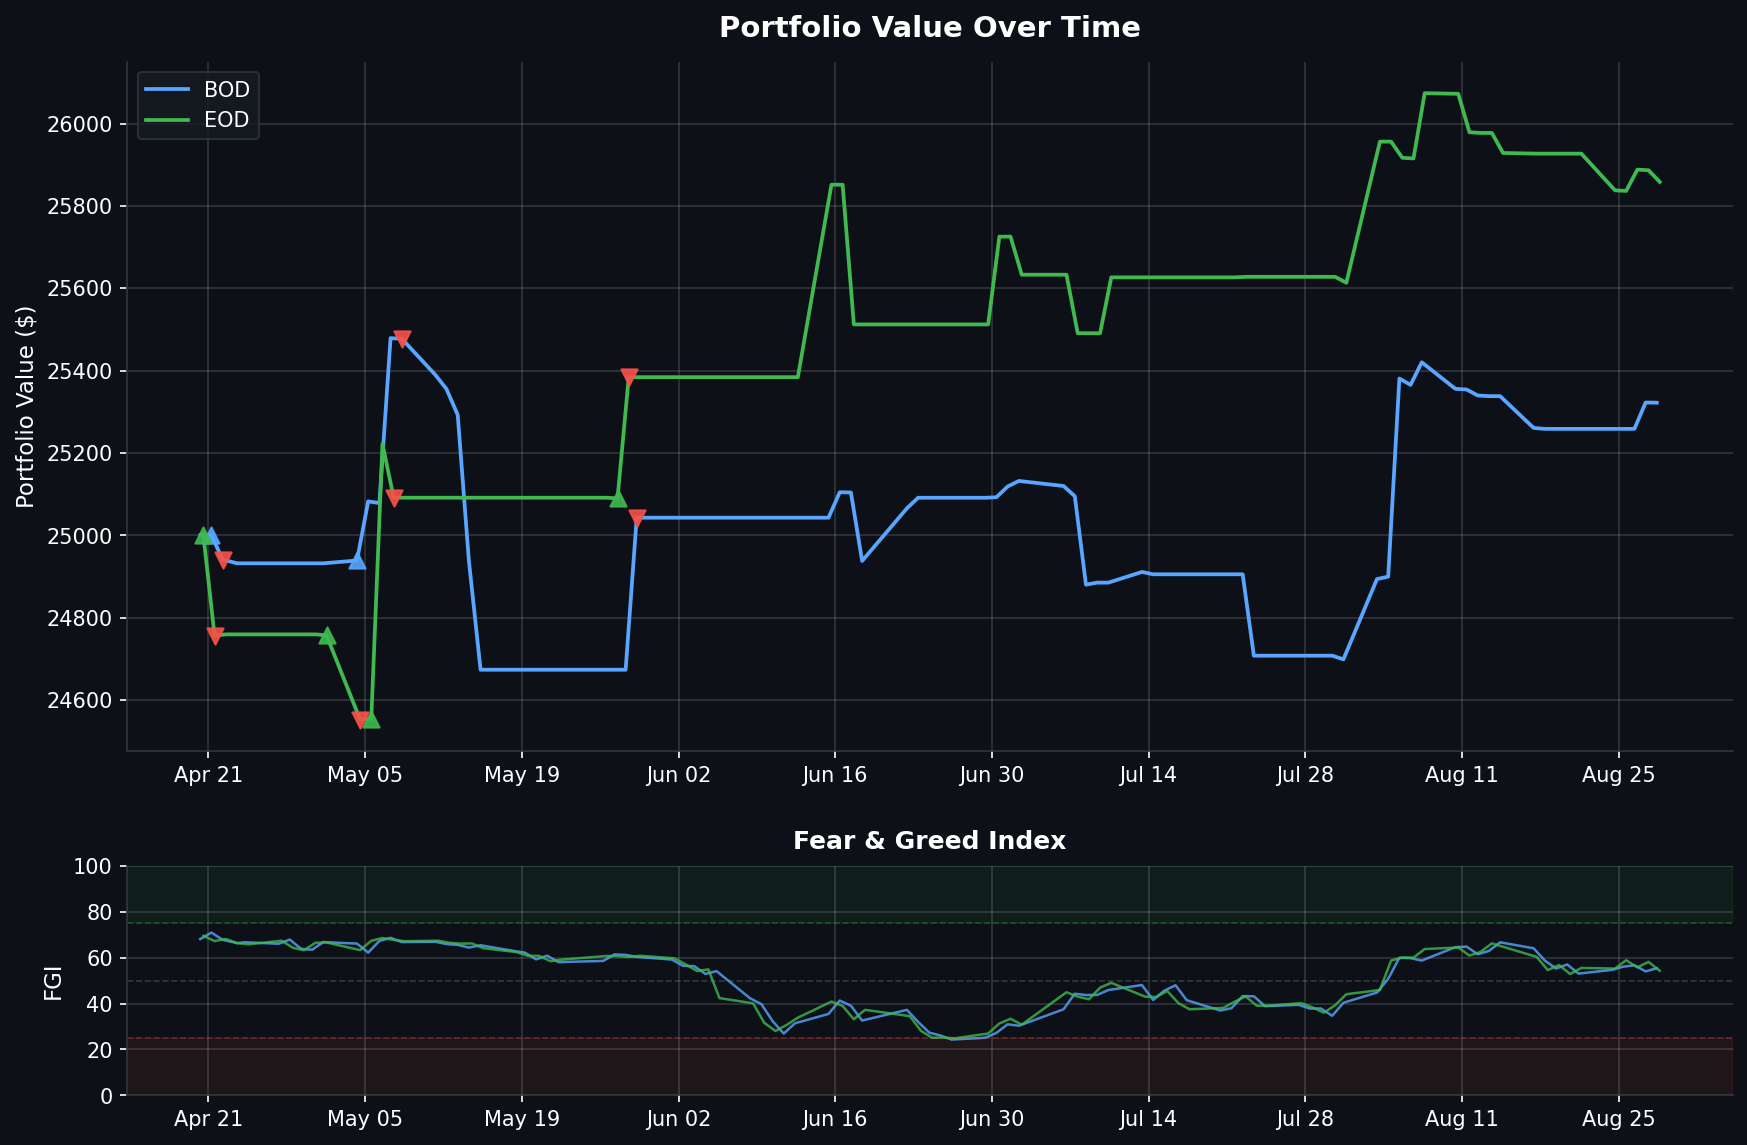
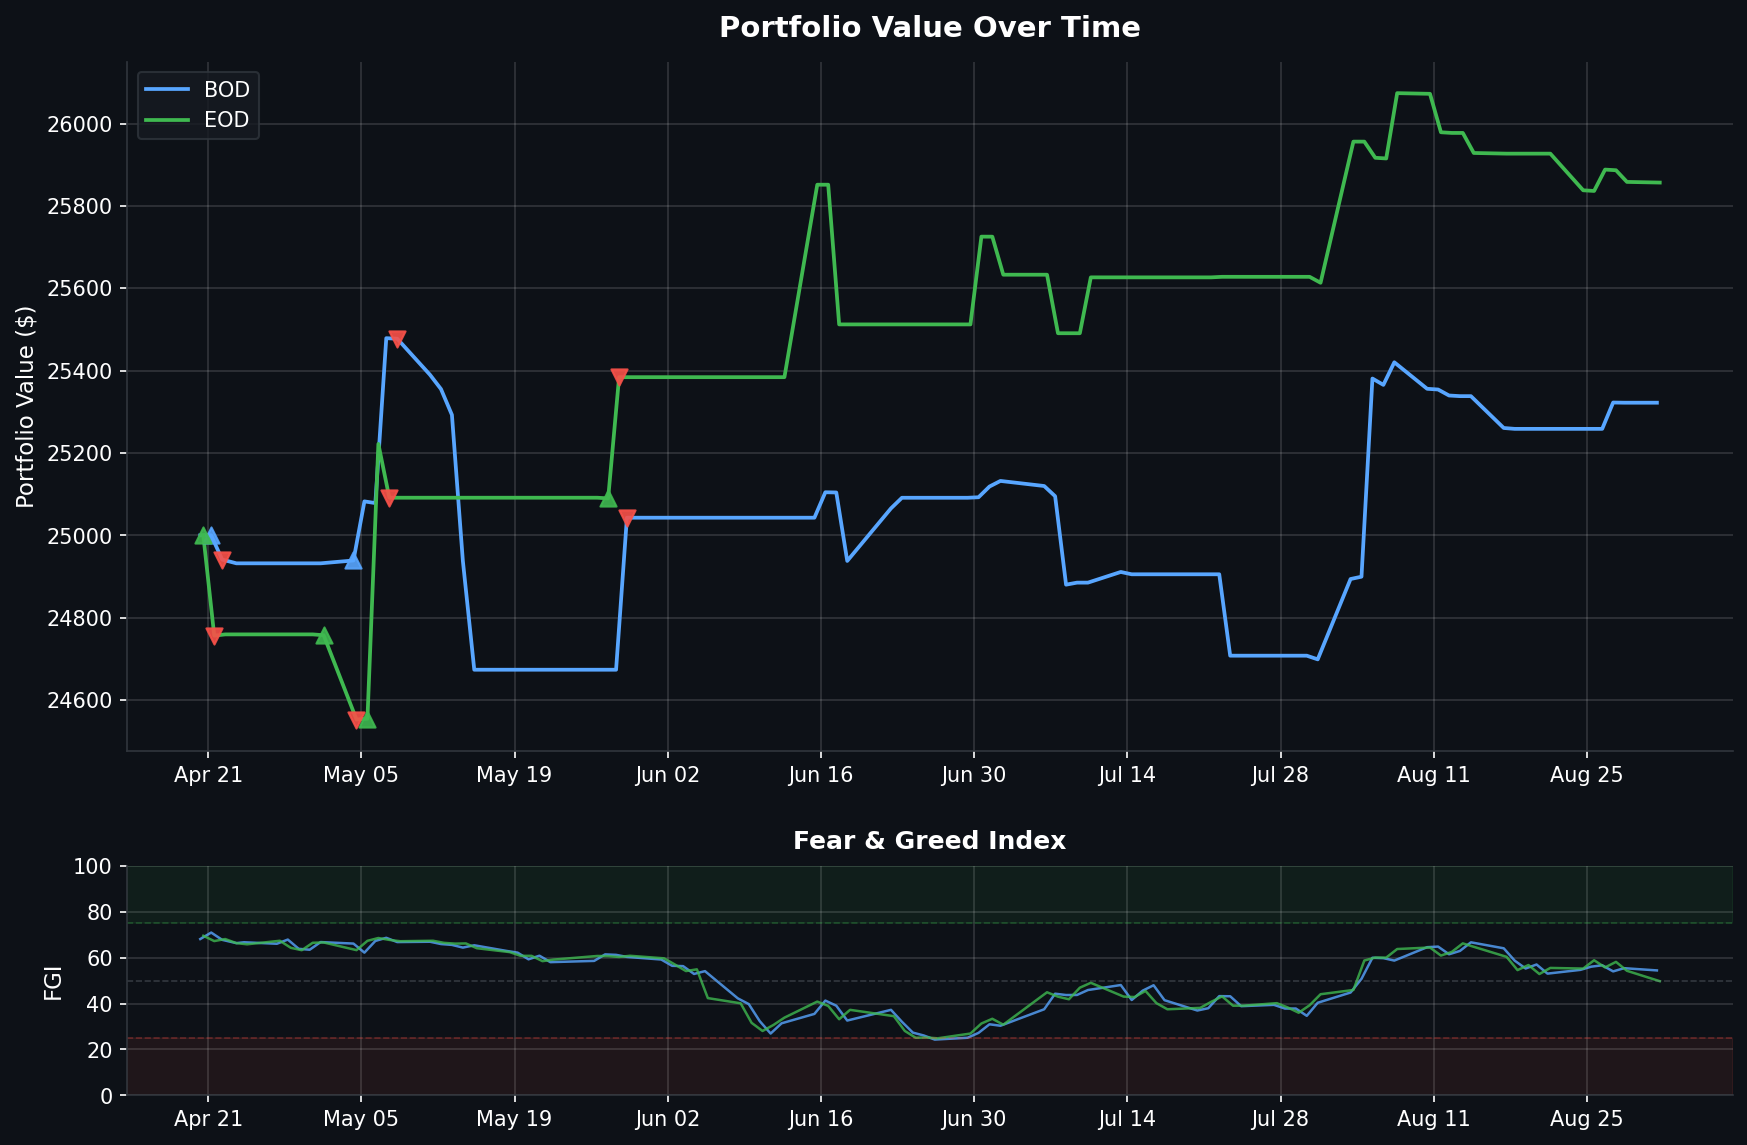
Daily data backup 2026-08-31

diff --git a/README.md b/README.md
@@ -1,6 +1,6 @@
 # Fear & Greed Index Trading Bot
 
-> Dashboard auto-updated daily at market close | Last update: **2026-08-29 13:29 PST**
+> Dashboard auto-updated daily at market close | Last update: **2026-08-31 13:30 PST**
 
 ![Portfolio Performance](assets/portfolio_chart.png)
 
@@ -12,12 +12,12 @@
 |--------|-------|
 | Portfolio Value | **$25,322.10** |
 | Buying Power | $101,288.40 |
-| Current FGI | 55.4 |
+| Current FGI | 54.43 |
 | Position | FLAT |
 | Total P&L | **$+995** |
 | Win Rate | 50% (1W / 1L) |
 | Total Round Trips | 2 |
-| Last Signal | NO_ACTION @ 2026-08-28 09:35 |
+| Last Signal | NO_ACTION @ 2026-08-31 09:35 |
 
 <details>
 <summary>Trade History (2 trades)</summary>
@@ -34,11 +34,11 @@
 
 | Time | Action | Price | FGI | Momentum | Velocity | Volatility | Reason |
 |------|--------|-------|-----|----------|----------|------------|--------|
+| 08-31 09:35 | NO_ACTION | $766.17 | 54.43 | -0.18 | -0.74 | 0.0934 | Insufficient momentum/velocity for entry |
 | 08-28 09:35 | NO_ACTION | $772.07 | 55.4 | 0.05 | -0.22 | 0.55 | Insufficient momentum/velocity for entry |
 | 08-27 09:35 | NO_ACTION | $767.41 | 54.0 | -1.57 | -0.22 | 0.55 | SELL incomplete - still holding 32 after 5 attempts |
 | 08-26 09:35 | NO_ACTION | $765.67 | 56.66 | 0.87 | 1.21 | 0.55 | BUY did not fill after 3 attempts |
 | 08-25 09:35 | NO_ACTION | $766.64 | 56.06 | 1.48 | -0.31 | 0.55 | Insufficient momentum/velocity for entry |
-| 08-24 09:35 | NO_ACTION | $763.34 | 54.66 | -0.24 | -0.20 | 0.55 | Insufficient momentum/velocity for entry |
 
 </details>
 
@@ -48,17 +48,17 @@
 
 | Metric | Value |
 |--------|-------|
-| Portfolio Value | **$25,858.29** |
-| Buying Power | $103,433.16 |
-| Current FGI | 54.26 |
-| Position | IN POSITION |
+| Portfolio Value | **$25,856.69** |
+| Buying Power | $103,426.76 |
+| Current FGI | 49.74 |
+| Position | FLAT |
 | Total P&L | **$+302** |
 | Win Rate | 50% (2W / 2L) |
 | Total Round Trips | 4 |
-| Last Signal | NO_ACTION @ 2026-08-28 15:52 |
+| Last Signal | NO_ACTION @ 2026-08-31 15:50 |
 
 <details>
-<summary>Trade History (5 trades)</summary>
+<summary>Trade History (4 trades)</summary>
 
 | Buy Date | Sell Date | Buy Price | Sell Price | Qty | P&L | Return | Result |
 |----------|-----------|-----------|------------|-----|-----|--------|--------|
@@ -66,7 +66,6 @@
 | 2026-05-01 | 2026-05-04 | $720.42 | $717.38 | 68 | $-207 | -0.42% | LOSS |
 | 2026-05-05 | 2026-05-07 | $723.86 | $731.90 | 67 | $+539 | +1.11% | WIN |
 | 2026-05-27 | 2026-05-28 | $750.78 | $755.22 | 66 | $+293 | +0.59% | WIN |
-| 2026-08-27 | — | unknown (late/unlogged fill) | — | 33 | — | — | OPEN |
 
 </details>
 
@@ -75,11 +74,11 @@
 
 | Time | Action | Price | FGI | Momentum | Velocity | Volatility | Reason |
 |------|--------|-------|-----|----------|----------|------------|--------|
+| 08-31 15:50 | NO_ACTION | $767.39 | 49.74 | -4.31 | -2.00 | 0.0931 | Insufficient momentum/velocity for entry |
 | 08-28 15:52 | NO_ACTION | $769.53 | 54.26 | -1.79 | -1.53 | 0.55 | SELL incomplete - still holding 33 after 5 attempts |
 | 08-27 15:50 | NO_ACTION | $770.53 | 58.14 | 0.56 | 0.97 | 0.55 | BUY did not fill after 3 attempts |
 | 08-26 15:52 | NO_ACTION | $767.11 | 55.74 | -0.87 | 0.08 | 0.55 | SELL incomplete - still holding 33 after 5 attempts |
 | 08-25 15:50 | NO_ACTION | $765.34 | 58.86 | 2.33 | 2.00 | 0.55 | BUY did not fill after 3 attempts |
-| 08-24 15:52 | NO_ACTION | $763.90 | 55.23 | 0.70 | -0.51 | 0.55 | SELL incomplete - still holding 33 after 5 attempts |
 
 </details>
 
